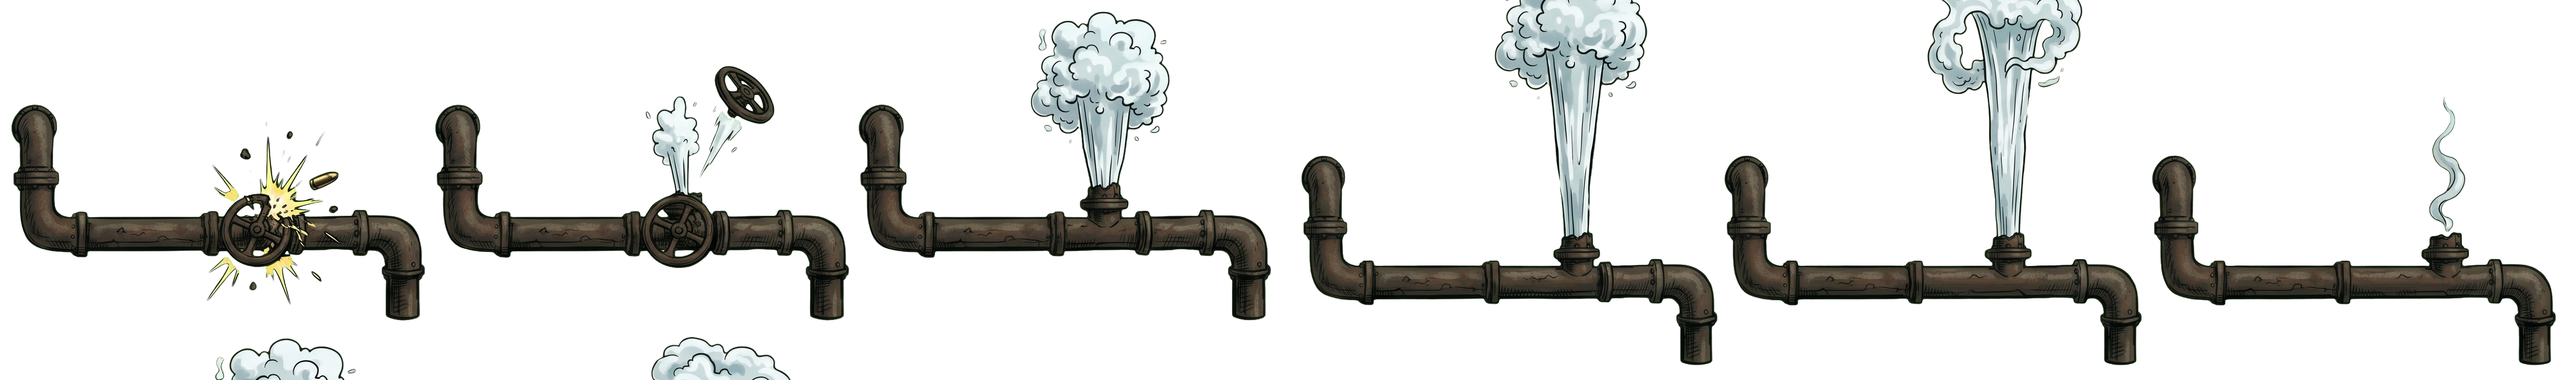
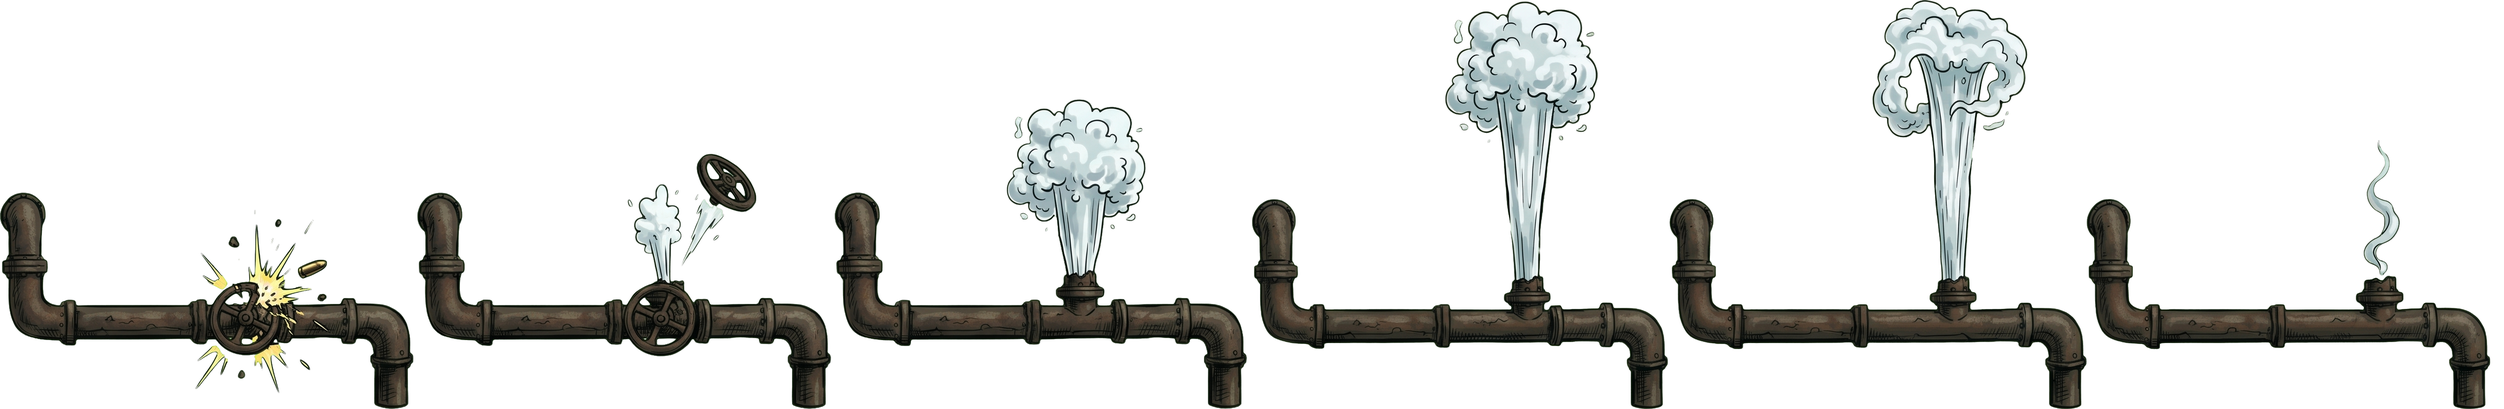
Rooms stop at their walls, shot sheets drop, the pipe's cloud whole, no El pull-back indoors
Inside a room the camera never looks past its walls (and zooms so a narrow
room fills the screen): no black band at the laundry's end. Cloth no longer
held by the washing line is cut out and falls into a heap; seven holes take a
sheet off its pegs. The steam pipe animation is cut by inked pieces, so the
clouds rising into the row above stay whole, and its frames line up on the
pipe. The El's train does not pull the camera back indoors.

Claude-Session: https://claude.ai/code/session_01C3g9ebEUU8UkDo4ST8X8fa

Changed region(s): [[0.0, 0.0, 0.9945, 1.0]]

diff --git a/gen/street_props.py b/gen/street_props.py
@@ -56,6 +56,48 @@ SHRINK = {"hydrant": 0.72, "kegs": 0.5, "windlass": 0.5, "trolley": 0.6, "thirdr
 # pixels only, in a band round it, so smoke there stays), the game draws it on from there (props.gd TROLLEY_WIRE).
 WIRE_CUT = {"trolley": (705, 140, 240)}   # x, rows y0..y1 in the cell, full size   # drawn bigger than shown: a hydrant cell is ~360 px wide on the street
 DESPILL = {"thirdrail"}
+# A grid sheet whose frames reach over the line between the rows (the steam pipe's clouds rise into the row above,
+# user 18. 11.: "the steam is cut off at the top"): each inked piece goes whole to the frame it belongs to (the cell
+# holding most of it), every cell taller by a row above it, so a cloud is never cut and its top never shows up
+# under the frame above.
+SPILL = {"steampipe"}
+def spill_cells(rgba, n, rows):
+    cols = n // rows
+    W, H = rgba.shape[1] // cols, rgba.shape[0] // rows
+    lab, k = ndimage.label(ndimage.binary_dilation(rgba[..., 3] > 20, iterations=3))
+    sizes = ndimage.sum(np.ones_like(lab), lab, range(k + 1))
+    owner = np.full(k + 1, -1)
+    for c in range(1, k + 1):
+        if sizes[c] < 6000:
+            continue
+        ys, xs = np.where(lab == c)
+        counts = np.bincount(np.minimum(ys // H, rows - 1) * cols + np.minimum(xs // W, cols - 1), minlength=n)
+        owner[c] = int(np.argmax(counts))
+    # a loose drop or splinter goes with the nearest big piece (a droplet off a cloud is that cloud's)
+    big = owner[lab] >= 0
+    _, (iy, ix) = ndimage.distance_transform_edt(~big, return_indices=True)
+    for c in range(1, k + 1):
+        if owner[c] < 0:
+            ys, xs = np.where(lab == c)
+            owner[c] = owner[lab[iy[ys[0], xs[0]], ix[ys[0], xs[0]]]]
+    cells = []
+    for i in range(n):
+        r0, c0 = (i // cols) * H, (i % cols) * W
+        cell = np.zeros((3 * H, W + 2 * W // 4, 4), np.uint8)   # room above for the cloud, and round it to slide it
+        top = max(0, r0 - H)
+        part = rgba[top:r0 + H, c0:c0 + W].copy()
+        mine = owner[lab[top:r0 + H, c0:c0 + W]] == i
+        part[..., 3] = np.where(mine, part[..., 3], 0)
+        # the frames drawn on a grid do not stand the pipe at the same place: line each up on the pipe's
+        # left end and its foot (its dark iron), so it never jumps between the frames
+        iron = (part[..., 3] > 200) & (part[..., :3].astype(float).mean(axis=2) < 110)
+        ys, xs = np.where(iron)
+        y0, x0 = 2 * H - 1 - ys.max(), W // 4 + 20 - xs.min()   # the foot on one line, the left end on one column
+        cell[y0:y0 + part.shape[0], x0:x0 + W] = part
+        cells.append(cell)
+    return cells
+
+
 def anim(kind, f, n=6, rows=1, pick=None):
     a = np.asarray(Image.open(os.path.join(SRC, f)).convert("RGB")).astype(float)
     r, g, b = a[..., 0], a[..., 1], a[..., 2]
@@ -66,7 +108,10 @@ def anim(kind, f, n=6, rows=1, pick=None):
     rgba = np.dstack([np.clip(a, 0, 255), alpha * 255]).astype(np.uint8)
     cols = n // rows
     W, H = rgba.shape[1] // cols, rgba.shape[0] // rows
-    cells = [rgba[(i // cols) * H:(i // cols + 1) * H, (i % cols) * W:(i % cols + 1) * W].copy() for i in range(n)]
+    if kind in SPILL and rows > 1:
+        cells = spill_cells(rgba, n, rows)
+    else:
+        cells = [rgba[(i // cols) * H:(i // cols + 1) * H, (i % cols) * W:(i % cols + 1) * W].copy() for i in range(n)]
     if pick:
         cells = [cells[i] for i in pick]
     ys, xs = np.where(np.max([c[..., 3] for c in cells], axis=0) > 20)

diff --git a/HANDOFF.md b/HANDOFF.md
@@ -525,3 +525,5 @@ Read `.claude/skills/ashes-znalosti/SKILL.md` first (stable rules + topic index,
 - (67) Audit round 2: dive_push clip (0.2 s lean + back leg drive + dust) before every dive from upright; puppet.set_rim(k): in slowed time the contour widens x1.7 and goes near white, on Frank and every mobster. vault test is stale (running at a crate stops him by design; the vault is from a dive - covered by the dive test). Tracers exist on every shot (Gemini's 'no tracer' came from the death test killing directly).
 - (68) UI audit (Gemini on 5 screens; its px estimates came from a half-size sheet, so its button sizes were wrong - checked at full size, buttons are fine): case-file map names Oswald 22 (were typewriter 18); tally: SCORE and the LEVEL/XP line on one row, never wrapped. Open from the UI review (not done, judged lower value or against the paper look): bigger HUD cluster frame, narration box at the bottom.
 - (69) UI audit finished (the two open items of 68): the HUD cluster (portrait, health, rounds, gun cards) on one dark ink plate (panel paper tinted, hud.PLATE_RECT, narrower without a spare gun); narration moved from under the portrait to low in the middle between the stick and the stopwatch, lines stack upward, max ~2 boxes (CAPTION_MAX_H), balanced wrapping; boss bar kept between the plate and pause (overlapped the gun card at 1280); ammo tail text shrinks clear of the card; hint tween no longer holds a freed box (weakref; "Lambda capture freed" error). New test --test=hud. Checked 1280+1560: caption, hud, pause, choice, card, tally, give - no UI BAD.
+- (70) User on the phone (18. 11.): laundry end showed a black band (steam and a dead man's gun in it), the burst pipe's steam cut flat at the top, shot-through sheets should drop, the El pulled the camera back indoors. Fixed: inside a plain room the camera never looks past its walls (main._room_cam_x clamp + zoom so a narrow room fills the width; the black covers past x1 had cut Frank in half at the door); mapfx._detach: after each hit the cloth no longer held by the washing line (grid flood from the line) is cut out and drops (_fall_cloth: falls, slumps into a heap, fades after 8 s, hidden with the room), 7+ holes in one sheet = whole sheet off its pegs; gen/street_props.py SPILL: grid sheets split by inked pieces (clouds rising into the row above stay whole, stray drops go with the nearest piece) and frames aligned on the pipe's iron (it jumped between rows) -> props ANIM_W steampipe 0.9359, ANIM_X0 0.019; mapfx El: indoors no wide_shot / cue, lighter shake. get_meta("mark", null) errors fixed (null default = no default). Tests: sheets --drop, el --indoors, --probe.
+

diff --git a/.claude/skills/ashes-znalosti/chapters/ch05-levels-maps.md b/.claude/skills/ashes-znalosti/chapters/ch05-levels-maps.md
@@ -64,7 +64,7 @@ How a new piece or map joins the rest so no break shows - in this order, never s
    A new drawing gets its EDGES entry the same day (check the edge sheet by eye).
 3. **Thresholds.** A change of kind of space passes a drawn opening: an interior's building front (two doors exactly at
    the room's ends), a house's facade door (cross-section), an alley gate, subway stairs, a dock gate. Until a front is
-   drawn, an interior is entered by a dip through black and is seen only from inside (main.gd `_tick_rooms`).
+   drawn, an interior is entered by a dip through black and is seen only from inside (main.gd `_tick_rooms`). Inside, the camera never looks past the room's walls (`_room_cam_x`; a room narrower than the screen is zoomed to fill it) - no black band at its ends (user 18. 11.).
 4. **No fight across a door.** levels.py `door_clear` keeps street men DOOR_CLEAR (700) from an interior's doors; the
    audit checks it (research ch15: transitions only without enemies on).
 5. **Map as a graph of spaces** (next, §10.4): street -> alley mouth -> yard -> back door -> stairwell -> flat -> window ->

diff --git a/.claude/skills/ashes-znalosti/chapters/ch02-tests.md b/.claude/skills/ashes-znalosti/chapters/ch02-tests.md
@@ -14,6 +14,7 @@ Repeat UI-relevant shots at 1280 wide too.
 - **Look/framing**: `look:x [--high] [--inner] [--smoke]`, `tops`, `rooms` (every street drawing), `bulbs:x`, `pin:i`, `give`, `fall:x[,player]`.
 - **Mechanics**: `men:hook|dynamite|sniper|shield|load`, `kick`, `ricochet`, `rope:climb|zip|swing`, `pipe`, `disarm`, `hat`, `bag`, `coatdive`, `jumpseq`, `fxsheet`, `aicover --chapter=2 --map=1`.
 - **Map FX**: `el`, `fog`, `oncoming`, `sheets`, `neondrop`, `storm`, `rock`, `sea`, `steam`, `rats`, `freight`, `flood`, `girder`.
+- **18. 11.**: `hud` (HUD plate worst case), `sheets --drop` (sheets shot loose), `el --indoors` (train over a room), `look:x --probe=x,y` (prints every visible drawing over that world point: what covers it). A look/el test that goes silent near a diary page is the page pausing the game, not a hang - move x.
 - **Flags**: `--guilt=N`, `--perks=all|id,id`, `--xp=N`, `--instincts=all`, `--figscale=`, `--lift=`, `--cones` (rejected look, comparison only), `--texdump`, `--timing`, `--log-sound`, `--packs=<dir>` with `--main-pack build/index.pck` (split-build test).
 
 ## Rules
